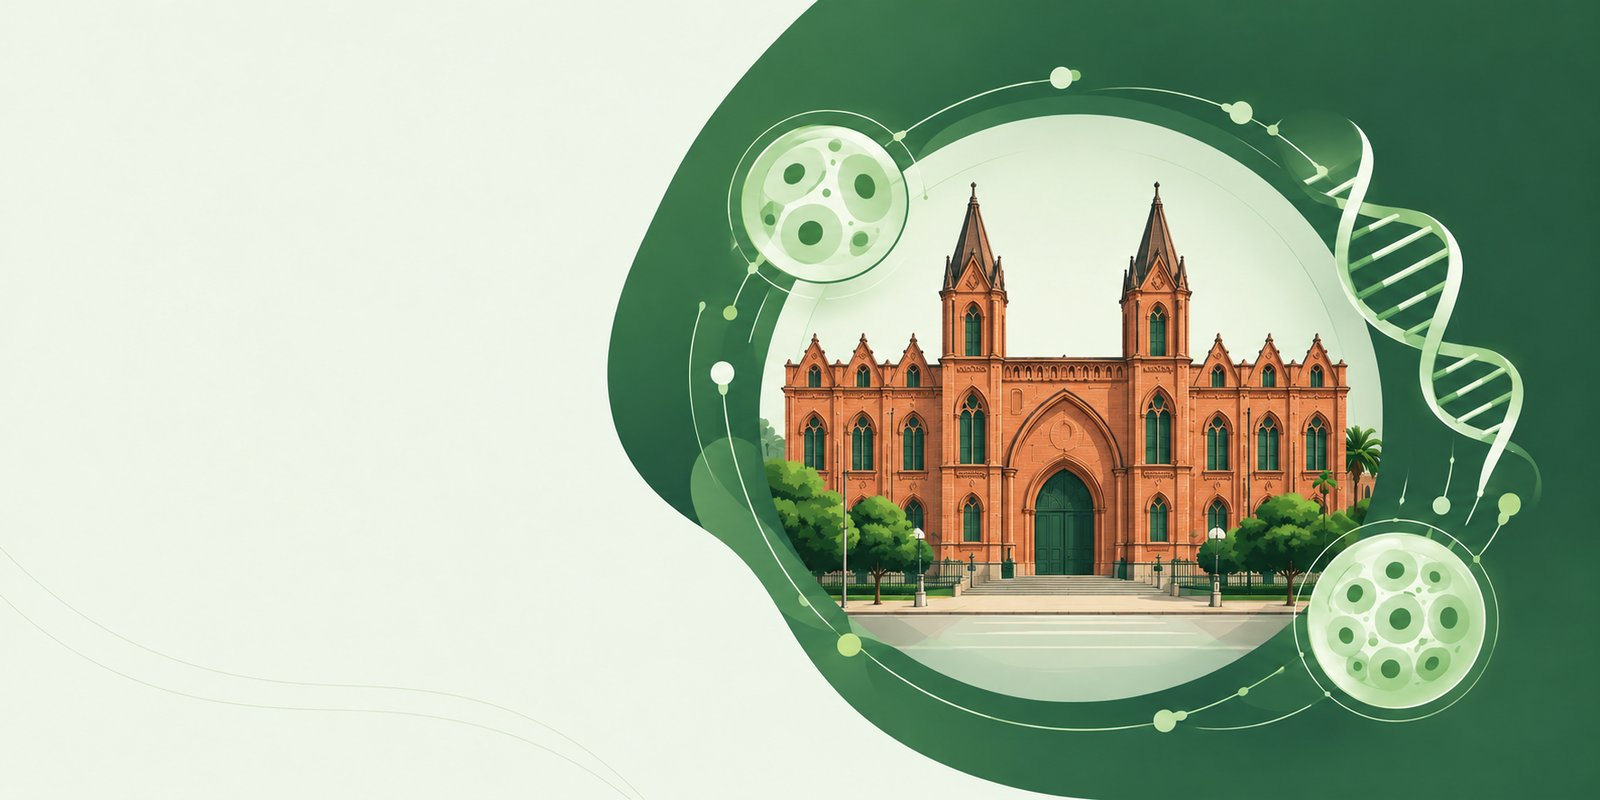
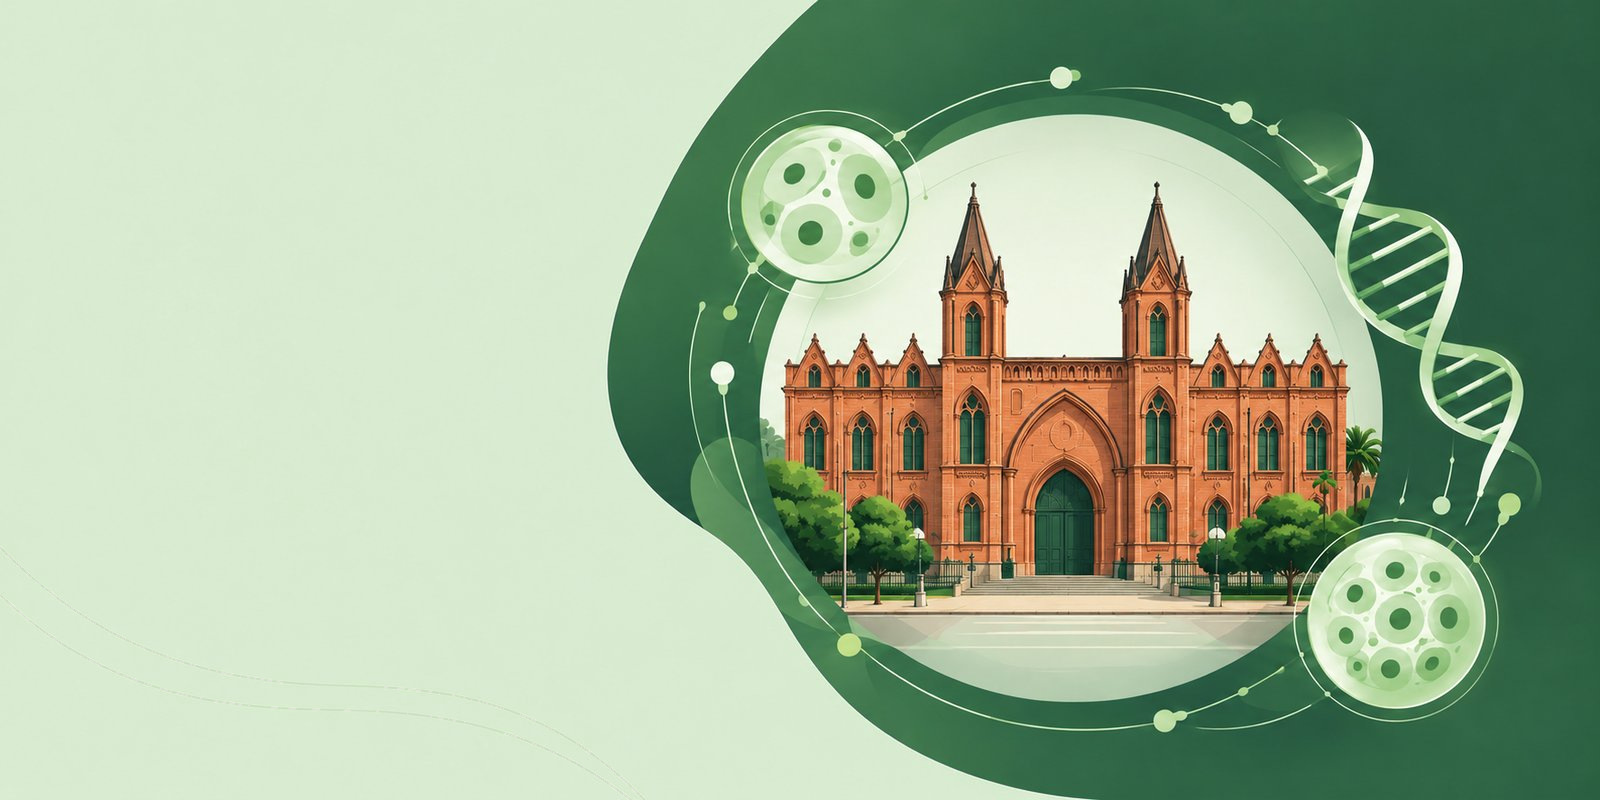
Deixa o fundo da capa da home num verde um pouco mais forte
O tom mais escuro delimita a capa em relação ao resto da página. A ilustração
foi ajustada para combinar com o novo fundo, sem emenda visível.

Claude-Session: https://claude.ai/code/session_01Hgk26i8JGmyuxgemJRSM4d

diff --git a/public/css/style.css b/public/css/style.css
@@ -229,7 +229,7 @@ nav a.entrar:hover,nav a.entrar:focus-visible{color:var(--on-accent);transform:t
 @media (max-width:640px){.abas button{padding:8px 14px;font-size:14px}}
 
 /* Imagem de destaque da home */
-.capa{background:#EDF5E9 url(../assets/hero_predio.jpg) right -3vw center/auto min(118%,47vw) no-repeat;min-height:clamp(500px,calc(100vh - 84px),780px);display:flex;align-items:center}
+.capa{background:#D9EBD0 url(../assets/hero_predio.jpg) right -3vw center/auto min(118%,47vw) no-repeat;min-height:clamp(500px,calc(100vh - 84px),780px);display:flex;align-items:center}
 .capa .wrap>div:first-child{max-width:min(640px,40vw)}
 header .wrap,.capa .wrap{max-width:none;padding-left:max(24px,4vw);padding-right:max(24px,4vw)}
 header .wrap{padding-right:max(20px,1.5vw)}
